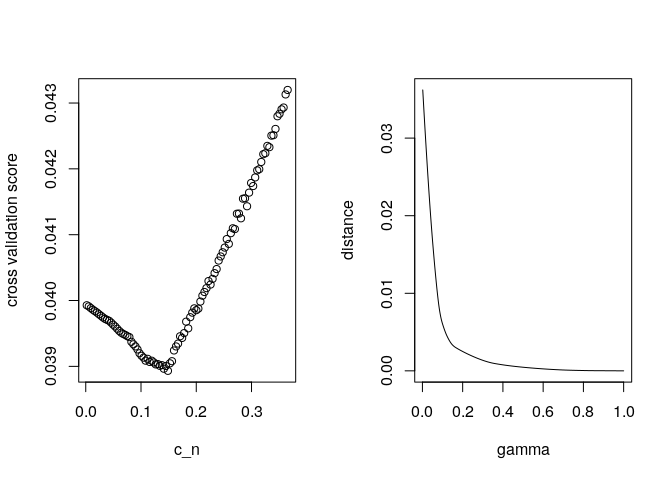
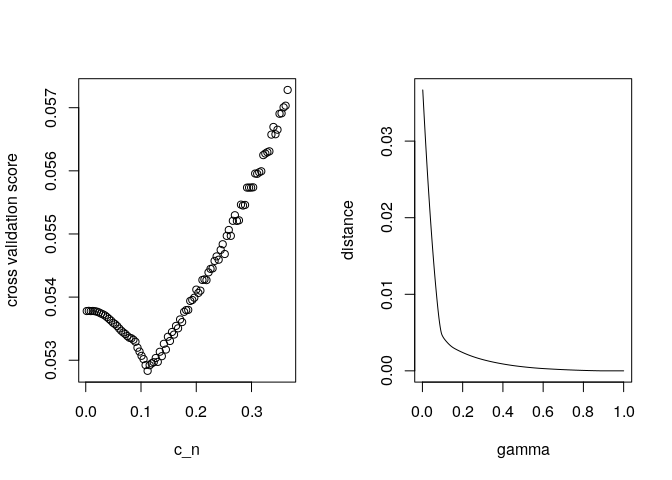
add url

diff --git a/README.md b/README.md
@@ -86,7 +86,7 @@ print(est.default)
 ```
 
     ## Call:mix.model(data = data.1, method = "fixed", gridsize = 600)
-    ## [1] "Estimate of alp is 0.0816666666666667"
+    ## [1] "Estimate of alp is 0.0766666666666667"
     ## [1] " The chosen value c_n is 0.182690266560073"
 
 ``` r
@@ -119,7 +119,7 @@ est.cv <- mix.model(data.1, method = "cv", gridsize = 600)
     ## is Uniform(0,1)
 
     ## [1] "Expected time for completion"
-    ## Time difference of 1.633801 secs
+    ## Time difference of 1.687224 secs
 
 ``` r
 print(est.cv)
@@ -127,7 +127,7 @@ print(est.cv)
 
     ## Call:mix.model(data = data.1, method = "cv", gridsize = 600)
     ## [1] "Estimate of alp is 0.0933333333333333"
-    ## [1] " The chosen value c_n is 0.148717258404811"
+    ## [1] " The chosen value c_n is 0.111994669470009"
 
 ![](README_files/figure-gfm/unnamed-chunk-2-1.png)<!-- -->
 
